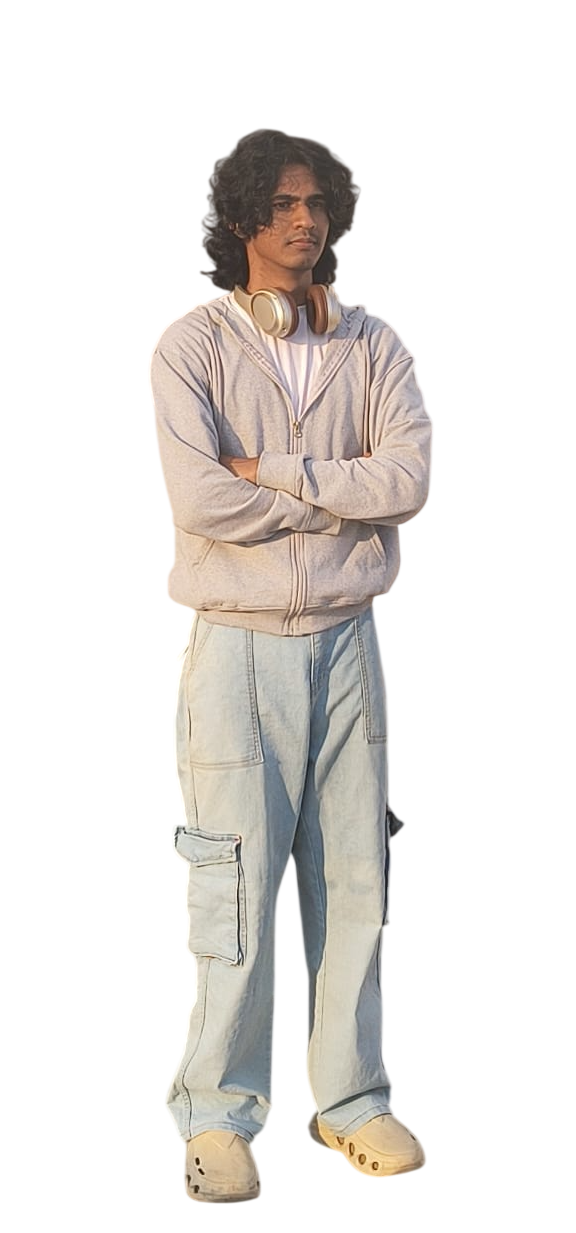
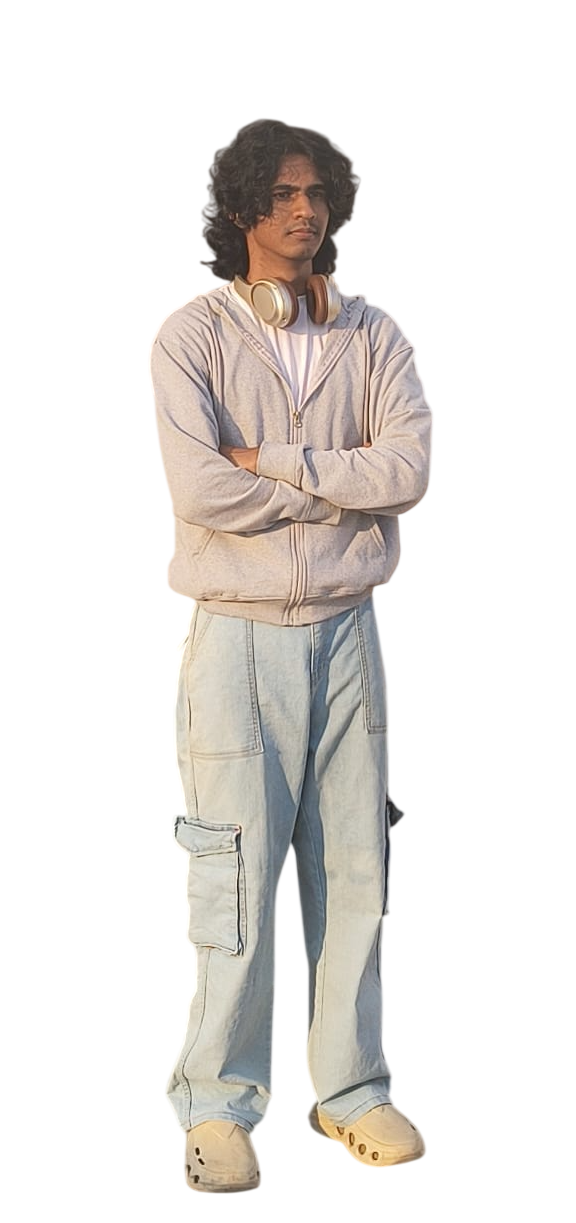
Fixed unwanted varying height of model image container

diff --git a/src/components/MyImage.jsx b/src/components/MyImage.jsx
@@ -25,13 +25,23 @@ export const MyImage = ()=>{
 
         const interval = setInterval(() => {
         setIndex((prev) => (prev + 1) % frames.length);
-        }, 1020); // Adjust ms for faster/slower stop-motion speed
+        }, 500); 
 
         return () => clearInterval(interval);
     }, []);
     return(
-        <div className="flex w-[min(60vw,36vh)] items-end justify-center font-extrabold font-stretch-50% border-2 border-red-950 overflow-hidden">
-            <img src={frames[index]} alt="model" className="h-[100%] w-[100%] scale-[1] object-contain origin-bottom object-bottom"/>
+        <div className="flex relative h-[min(90vw,78vh)] w-[min(60vw,36vh)] items-end justify-center shrink-0 border-2 border-red-950 overflow-hidden">
+            {frames.map((src, i) => (
+        <img key={i} src={src} alt="Nilesh Boddhul" 
+        // className={`absolute scale-[0.77] inset-0  h-full w-full origin-bottom object-contain object-bottom select-none 
+        //     ${
+        //         i === index ? "opacity-100" : "opacity-0"
+        //     }`}
+        className={`absolute bottom-0 left-1/2 h-full w-auto max-w-none -translate-x-1/2 origin-bottom select-none ${
+          i === index ? "opacity-100" : "opacity-0"
+        }`}
+        />
+      ))}
         </div>
     )
 }
